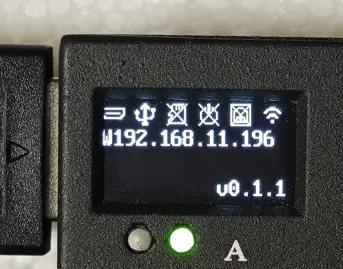
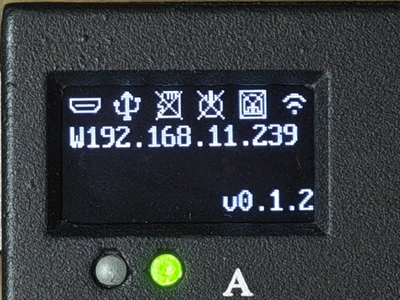
docs(quick-start): 更新快速入门截图与文档
- 新增统一命名体系的截图（oled_/phone_/web_ 前缀）
- 清理旧的配网流程截图
- 图片引用从 PNG 迁移为 WebP
- 更新配网流程步骤说明

diff --git a/Docs/docs/quick_start/index.md b/Docs/docs/quick_start/index.md
@@ -146,15 +146,15 @@
 连接后：
 
 - 🔴 **电源灯 [9] 常亮** 
-- 约 2 秒后，**OLED 显示屏 [14]** 显示 FlexKVM logo
+- 约 2 秒后，**OLED 显示屏 [14]** 显示 "楚拓电子" logo
 
-![FlexKVM logo](./images/oled_startup_logo.webp)
+![FlexKVM logo](./images/oled_logo.webp)
 
 - 约 20 秒后（首次启动可能稍长，30 秒内属正常），OLED 进入设备状态界面
 - 🟢 **状态灯 快闪**
 - 🔴 **警告灯 慢闪**
 
-![设备状态显示界面](./images/device_status.webp)
+![设备状态显示界面](./images/oled_init.webp)
 
 > 排查：如果 OLED 无显示或 🔴 电源灯 [9] 不亮，可能是电源适配器供电不足，请使用 5V/1A 以上的适配器。
 >
@@ -171,7 +171,7 @@
 - OLED 状态栏 :material-usb: USB 图标显示已连接（:material-close: 符号消失）
 - 🟢 状态灯 从快闪变为**慢闪**
 
-![连接USB，显示屏显示](./images/usb_connected.webp)
+![连接USB，显示屏显示](./images/oled_usb_connected.webp)
 
 > 排查：如果 🟢 状态灯 仍为快闪，请检查被控设备是否已正常开机、USB 线材是否支持数据传输（包装内三根 USB Type-C 线均支持数据传输；若使用自备线材，请确认其为数据线而非仅充电线，部分仅充电线无法传输键鼠信号）。
 
@@ -186,7 +186,7 @@
 - OLED 状态栏 :material-hdmi-port: HDMI 图标显示已连接（:material-close: 符号消失）
 - 🟢 状态灯 从**慢闪**变为**常亮**
 
-![连接HDMI，显示屏显示](./images/hdmi_connected.webp)
+![连接HDMI，显示屏显示](./images/oled_hdmi_connected.webp)
 
 ---
 
@@ -233,6 +233,8 @@
 - OLED 状态栏网络图标启用，并显示 `waiting`
 - 一般 **5 秒内**自动获取 IP 地址，OLED 显示 IP（如 `E192.168.1.100`，前缀 `E` 表示 Ethernet 有线网络；在浏览器访问时只需输入数字部分，如 `192.168.1.100`,将 192.168.1.100 替换为 OLED 显示的实际IP），🔴 **警告灯** 熄灭。
 
+![连接网线，显示屏显示](./images/oled_eth_connected.webp)
+
 > **长时间未获取 IP 的排查步骤**：
 > 1. 网口灯不亮 → 检查网线两端是否插紧、尝试更换网线
 > 2. 网口灯亮但不闪烁 → 检查路由器端口是否正常、尝试更换端口
@@ -250,17 +252,17 @@
 
 长按**按键 A [3]** 3~6 秒，OLED 显示 AP 图标后 :material-access-point: 松开，进入热点配网模式。
 
-![配网模式](./images/oled_hotspot_mode.webp)
+![配网模式](./images/oled_provision_switch.webp)
 
 > 不到 3 秒不会触发；超过 6 秒则返回主界面。如果误操作，松开按键重试即可。
 
 松开按键后，会进入配网等待界面:
 
-![配网等待界面](./images/oled_hotspot_loading.webp)
+![配网等待界面](./images/oled_provision_start.webp)
 
 等待约 12 秒（设备正在生成 WiFi 热点，请耐心等待），OLED 会显示热点名称、密码和 IP 地址。
 
-![配网界面](./images/oled_hotspot_ready.webp)
+![配网界面](./images/oled_provision.webp)
 
 #### 2. 连接热点
 
@@ -279,17 +281,17 @@
 
 首先，手机连接到 FlexKVM 的热点。
 
-![手机连接热点](./images/phone_connect_wifi.webp)
+![手机连接热点](./images/phone_connect_provision.webp)
 
 然后，手机会自动弹出浏览器门户页，点击"登录到WLAN网络" 或者使用浏览器访问ip地址。
 
-![手机自动弹出浏览器门户页](./images/phone_auto_open_browser.webp)
+![手机自动弹出浏览器门户页](./images/phone_trust_ssl.webp)
 
 点击"信任"或"继续"进入用户登录界面。
 
 > 由于使用自签名证书，浏览器会提示"不安全"或"证书无效"，这是正常现象。各浏览器的跳过方法见下方 [浏览器访问](#浏览器访问) 中的表格。
 
-![手机配网页面](./images/phone_hotspot_web.webp)
+![手机配网页面](./images/web_list_wifi.webp)
 
 #### 3. 连接 WiFi
 
@@ -300,22 +302,23 @@
 在 **WIFI** 卡片中操作：
 
 
-1. 点击要连接的 WiFi，输入密码
-2. 点击**连接**按键
+点击要连接的 WiFi，点击**连接**按键
 
-![手机配网页面](./images/phone_wifi_refresh.webp)
+![手机配网页面](./images/web_connect_wifi.webp)
 
-![输入密码](./images/phone_wifi_connect.webp)
+如果wifi需要密码，输入密码后点击**连接**，（开放wifi会跳过输入密码的步骤）
+
+![输入密码](./images/web_connecting_wifi.webp)
 
 连接成功后，wifi卡片会显示已连接
 
-![手机配网页面](./images/phone_wifi_connect_success.webp)
+![手机配网页面](./images/web_connected_wifi.webp)
 
 #### 4. 退出配网
 
 点击页面右上角的**保存**按钮，设备自动退出配网模式并重启网络。
 
-![退出配网页面](./images/phone_save_exit.webp)
+![退出配网页面](./images/web_save.webp)
 
 确认后，设备会自动退出配网模式并重启网络。
 
